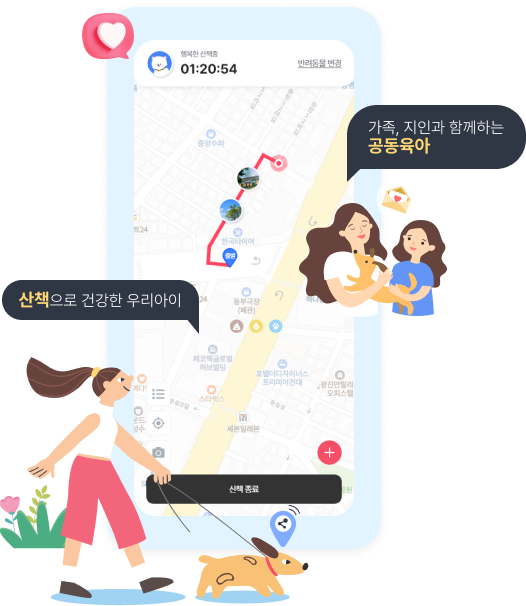
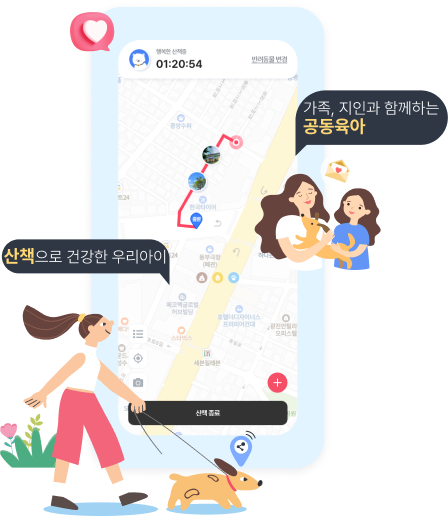
수정사항 반영

diff --git a/index.html b/index.html
@@ -41,25 +41,19 @@
                 </h1>
             </div>
             <div class="main-img">
-                <div class="qr-box">
-                    <dl>
-                        <dt>
-                            <img src="./image/qr-tit.png" class="pc-only" alt="" /> 
-                            <img src="./image/qr-tit-m.png" class="mo-only" alt="" />
-                        </dt>
-                        <dd>
-                            <a href="#" target="_blank"><img src="./image/qr-google.png"  class="pc-only"  alt="구글마켓" /></a>
-                            <a href="#" target="_blank"><img src="./image/qr-google_m.png" class="mo-only"  alt="구글마켓" /></a>
-                        </dd>
-                        <dd>
-                            <a href="#" target="_blank"><img src="./image/qr-apple.png"  class="pc-only"  alt="앱스토어" /></a>
-                            <a href="#" target="_blank"><img src="./image/qr-apple_m.png" class="mo-only"  alt="앱스토어" /></a>
-                        </dd>
-                    </dl>
-                </div>
                 <img src="./image/main_img.png" class="pc-img" alt="가족, 지인과 함께 하는 공동육아, 산책으로 건강한 우리아이">
                 <img src="./image/main_img_tablet.png" class="tablet-img" alt="가족, 지인과 함께 하는 공동육아, 산책으로 건강한 우리아이">
                 <img src="./image/main_img_m.png" class="mo-img" alt="가족, 지인과 함께 하는 공동육아, 산책으로 건강한 우리아이">
+                <div class="maket-button">
+                    <a href="#" target="_blank">
+                        <img src="./image/btn-google-market-pc.svg" class="pc-only" alt="구글 마켓" />
+                        <img src="./image/btn-google-market-m.svg" class="mo-only" alt="구글 마켓" />
+                    </a>
+                    <a href="#" target="_blank">
+                        <img src="./image/btn-app-store-pc.svg" class="pc-only" alt="앱스토어" />
+                        <img src="./image/btn-app-store-m.svg" class="mo-only" alt="앱스토어" />
+                    </a>
+                </div>                
             </div>     
             <div class="footer">
                 <div class="copy">

diff --git a/css/common.css b/css/common.css
@@ -21,6 +21,7 @@ body.modal-open {height: 100%;overflow: hidden;}
 .left-sect .main-img {position: relative; margin-top: 22px;}
 .left-sect .main-img .qr-box {position: absolute;right:37px;bottom:56px;width: 86px;padding:8px 0;gap: 8px; border: 1px solid #fff;border-radius: 16px;display: flex;align-items: center;justify-content: center;}
 .left-sect .main-img .qr-box dl {display: flex;flex-direction: column; gap: 8px;}
+.left-sect .main-img .maket-button {display: flex;justify-content: center;gap: 20px;margin-top: 20px;}
 .left-sect .footer {margin-top:30px;position: relative;font-size: 12px;color:#555;line-height: 18px;display: flex;justify-content: space-between;}
 .left-sect .footer span+span{margin-left: 5px;}
 .left-sect .footer .button-area {display: flex;flex-direction: column;justify-content: space-between; height: 100%;gap: 5px;}
@@ -197,7 +198,7 @@ body.modal-open {height: 100%;overflow: hidden;}
     .mo-img {display: none;}
     .tablet-img {display: block;width: 100%;max-width: none;height: 100%;max-height: 670px;}
     .left-sect .main-img .qr-box {right:41px;bottom:67px;width: 86px;padding:8px 0;}
-
+    .left-sect .main-img .maket-button {margin-top: 27px;}
     .modal-wrap {position: fixed;}
     .popupModal {top: 20%;transform: translate(-50%, 0);}
 
@@ -226,6 +227,8 @@ body.modal-open {height: 100%;overflow: hidden;}
     .left-sect .main-img .qr-box dl {gap: 4px;}
     .left-sect .main-img .qr-box dl dt img {width:31px;}
     .left-sect .main-img .qr-box dl dd img {width:30px;}
+    .left-sect .main-img .maket-button {gap: 8px;margin-top: 10px;}
+    .left-sect .main-img .maket-button img {width: 100px;}
 
     .right-frame .title-Wrap {height: 32px;}
     .right-frame .title-Wrap h2 img {width: 56px;}
@@ -310,4 +313,11 @@ body.modal-open {height: 100%;overflow: hidden;}
         background: #E85473 url('../image/icon-checkbox-check.svg') no-repeat center center;
         background-size: 15px auto;
     }    
+}
+
+@media (max-width: 767px) {   
+    .left-sect .footer .button-area a {padding: 0 7px;}
+    .checkbox input[type="checkbox"] + label {font-size: 13px;}
+    .btn-close-popup button {font-size: 13px;}
+    .checkbox input[type="checkbox"] + label::after {top:0;}
 }
